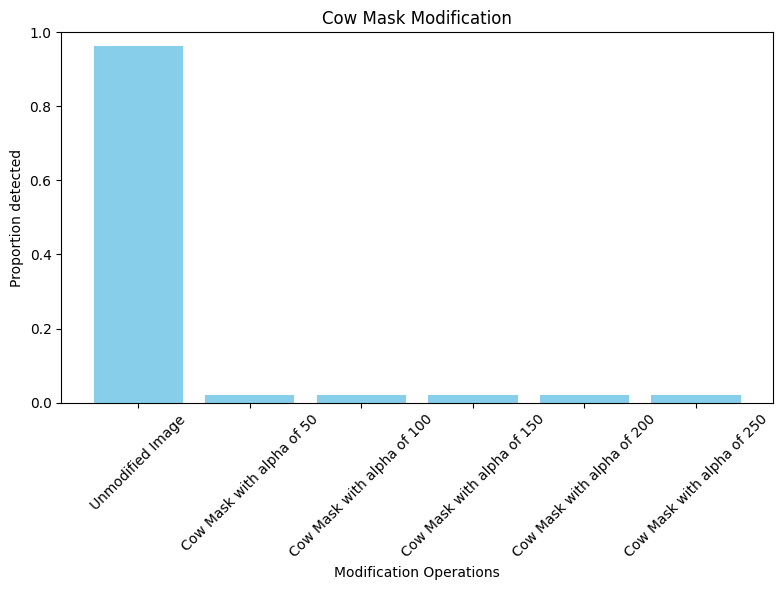
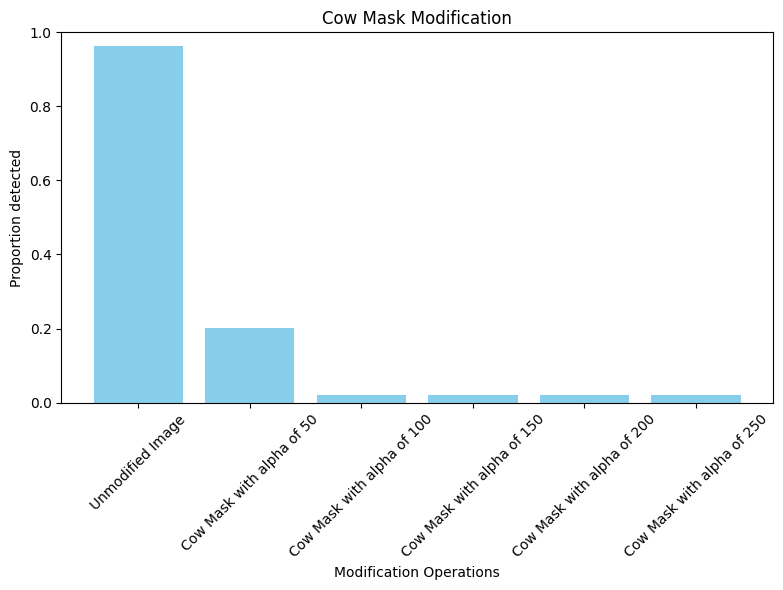
Fixed diagramms in FD documentation

Changed region(s): [[0.2452, 0.5492, 0.3985, 0.6712]]

diff --git a/test/DataAnalysisFaceModification.py b/test/DataAnalysisFaceModification.py
@@ -14,6 +14,7 @@ from mtcnn.mtcnn import MTCNN
 from PIL import Image, ImageFilter, ImageDraw
 import numpy
 import sys
+import logging
 
 sys.path.append('../backend/app')
 # we always call serverfrom here.
@@ -23,7 +24,7 @@ import main as server
 
 # this is relative based on new directory from change before!!!!
 # os.chdir('../test')
-
+logging.basicConfig(level=logging.INFO)
 
 ## Counting
 
@@ -51,6 +52,7 @@ def count_detected_faces_hog(image_mod_fn, needs_keypoints=True, **kwargs):
     faces = get_faces()
     detector = dlib.get_frontal_face_detector()
     counter_faces = 0
+    logging.info(f'kwargs: {kwargs}')
 
     for possibleFace in faces.images:
         scaled_rgb_image = (possibleFace * 255).astype(np.uint8)
@@ -110,7 +112,7 @@ def image_modification_plot_hog_and_alpha(title: str, modification_description: 
         values.append(count_detected_faces_hog(lambda x: x, False))
         for alpha_value in alpha_values:
             categories.append(modification_description + ' with alpha of ' + str(alpha_value))
-            values.append(count_detected_faces_hog(image_mod_fn, alpha_value))
+            values.append(count_detected_faces_hog(image_mod_fn, needs_keypoints = True, parameters = alpha_value))
 
     # Create bar chart
     plt.figure(figsize=(8, 6))
@@ -130,26 +132,26 @@ def image_modification_plot_hog_and_alpha(title: str, modification_description: 
 
 
 #Setup
-plot_img = get_faces().images[0]
-scaled_plot = (plot_img * 255).astype(np.uint8)
-pil_img = Image.fromarray(scaled_plot)
-pil_img_copy = pil_img.copy()
-keypoints_plot_img = find_keypoints(pil_img)
+#plot_img = get_faces().images[0]
+#scaled_plot = (plot_img * 255).astype(np.uint8)
+#pil_img = Image.fromarray(scaled_plot)
+#pil_img_copy = pil_img.copy()
+#keypoints_plot_img = find_keypoints(pil_img)
 
 # Cowface
 
 # plot_before_and_after_modification(pil_img_copy,
 #                                    server.apply_cow_pattern(pil_img, keypoints_plot_img, alpha_of_cow_pattern=80),
 #                                    'Cow Mask with Alpha of 45')
-# image_modification_plot_hog_and_alpha('Cow Mask Modification', 'Cow Mask', server.apply_cow_pattern,
-#                                       [50, 100, 150, 200, 250])
+#image_modification_plot_hog_and_alpha('Cow Mask Modification', 'Cow Mask', server.apply_cow_pattern,
+#                                       alpha_values = [50, 100, 150, 200, 250])
 
 # Salt and Pepper
 # plot_before_and_after_modification(pil_img_copy,
 #                                    server.apply_salt_n_pepper(pil_img, keypoints_plot_img, alpha_of_salt_n_pepper=45),
 #                                    'Salt and Pepper with alpha of 45')
-# image_modification_plot_hog_and_alpha('Salt and Pepper Modification', 'Salt and Pepper', server.apply_salt_n_pepper,
-#                                        [50, 100, 150, 200, 250])
+#image_modification_plot_hog_and_alpha('Salt and Pepper Modification', 'Salt and Pepper', server.apply_salt_n_pepper,
+#                                       alpha_values = [50, 100, 150, 200, 250])
 
 # Sunglasses
 # plot_before_and_after_modification(pil_img_copy,
@@ -172,7 +174,7 @@ keypoints_plot_img = find_keypoints(pil_img)
 
 # Pixelate
 # plot_before_and_after_modification(pil_img_copy, server.apply_pixelate(pil_img, keypoints_plot_img, pixel_size=2), 'Pixelate')
-#image_modification_plot_hog_and_alpha('Pixelate Modification', 'Applied Pixelate', server.apply_pixelate, [2,4,6,8])
+#image_modification_plot_hog_and_alpha('Pixelate Modification', 'Applied Pixelate', server.apply_pixelate, alpha_values = [2,4,6,8])
 
 # Blur
 #plot_before_and_after_modification(pil_img_copy, server.apply_blur(pil_img, keypoints_plot_img), 'Box Blur')
